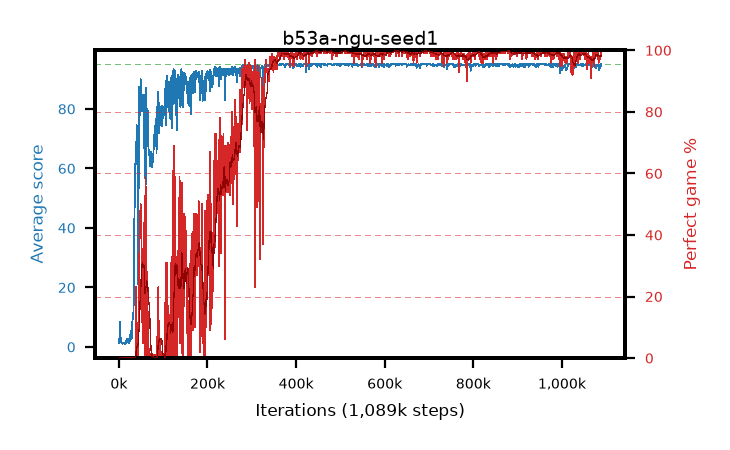
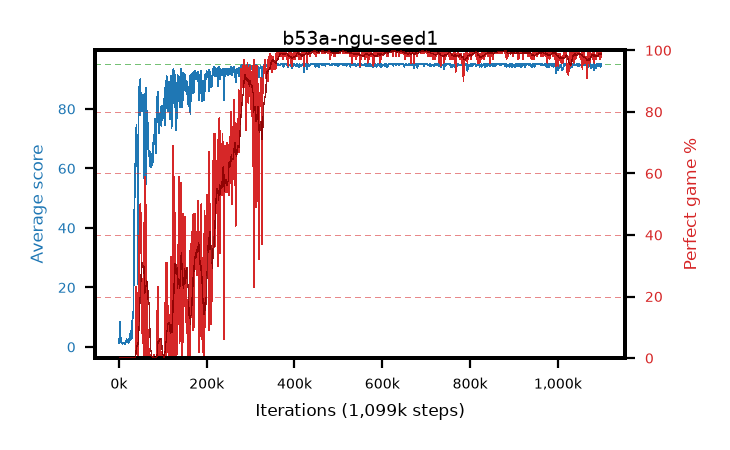
live pictures of 4 arm(s)

diff --git a/results/b53d-ngu-seed4/b53d-ngu-seed4.md b/results/b53d-ngu-seed4/b53d-ngu-seed4.md
@@ -1,6 +1,6 @@
 # b53d-ngu-seed4
 
-step **1,089,000** · 1089 evals · trailing **94.82** · peak **94.94** @1,040,000 · sef **72.3** · best30 **99.7** @1,024,000
+step **1,099,000** · 1099 evals · trailing **94.9** · peak **94.94** @1,040,000 · sef **72.5** · best30 **99.7** @1,024,000
 
 ## Config
 
@@ -80,15 +80,15 @@ step **1,089,000** · 1089 evals · trailing **94.82** · peak **94.94** @1,040,
 | 2000 | 2.39 | 1.47 | 0.0 | 8.0 | 1.286 | 0.0 | 0.4 |
 | 3000 | 6.99 | 3.31 | 0.0 | 25.0 | 5.34 | 0.0 | 0.4 |
 | ... | ... | ... | ... | ... | ... | ... | ... |
-| 1078000 | 94.98 | 94.82 | 93.0 | 95.0 | 192.676 | 99.0 | 0.4 |
-| 1079000 | 95.0 | 94.82 | 95.0 | 95.0 | 193.702 | 100.0 | 0.4 |
-| 1080000 | 95.0 | 94.82 | 95.0 | 95.0 | 193.704 | 100.0 | 0.4 |
-| 1081000 | 94.95 | 94.82 | 90.0 | 95.0 | 192.646 | 99.0 | 0.4 |
-| 1082000 | 94.95 | 94.82 | 90.0 | 95.0 | 192.654 | 99.0 | 0.4 |
-| 1083000 | 94.54 | 94.81 | 52.0 | 95.0 | 191.195 | 98.0 | 0.4 |
-| 1084000 | 95.0 | 94.81 | 95.0 | 95.0 | 193.691 | 100.0 | 0.4 |
-| 1085000 | 95.0 | 94.81 | 95.0 | 95.0 | 193.704 | 100.0 | 0.4 |
-| 1086000 | 95.0 | 94.81 | 95.0 | 95.0 | 193.713 | 100.0 | 0.4 |
-| 1087000 | 95.0 | 94.81 | 95.0 | 95.0 | 193.702 | 100.0 | 0.4 |
 | 1088000 | 94.75 | 94.82 | 70.0 | 95.0 | 192.452 | 99.0 | 0.4 |
 | 1089000 | 94.89 | 94.82 | 84.0 | 95.0 | 192.593 | 99.0 | 0.4 |
+| 1090000 | 95.0 | 94.84 | 95.0 | 95.0 | 193.687 | 100.0 | 0.4 |
+| 1091000 | 94.43 | 94.83 | 41.0 | 95.0 | 189.996 | 97.0 | 0.4 |
+| 1092000 | 95.0 | 94.83 | 95.0 | 95.0 | 193.69 | 100.0 | 0.4 |
+| 1093000 | 94.83 | 94.83 | 84.0 | 95.0 | 190.536 | 97.0 | 0.4 |
+| 1094000 | 95.0 | 94.88 | 95.0 | 95.0 | 193.696 | 100.0 | 0.4 |
+| 1095000 | 94.94 | 94.9 | 91.0 | 95.0 | 191.561 | 98.0 | 0.4 |
+| 1096000 | 94.41 | 94.89 | 36.0 | 95.0 | 192.064 | 99.0 | 0.4 |
+| 1097000 | 94.97 | 94.9 | 92.0 | 95.0 | 192.67 | 99.0 | 0.4 |
+| 1098000 | 95.0 | 94.9 | 95.0 | 95.0 | 193.689 | 100.0 | 0.4 |
+| 1099000 | 95.0 | 94.9 | 95.0 | 95.0 | 193.699 | 100.0 | 0.4 |

diff --git a/results/b53a-ngu-seed1/b53a-ngu-seed1.md b/results/b53a-ngu-seed1/b53a-ngu-seed1.md
@@ -1,6 +1,6 @@
 # b53a-ngu-seed1
 
-step **1,089,000** · 1089 evals · trailing **94.53** · peak **94.96** @643,000 · sef **74.2** · best30 **99.7** @643,000
+step **1,099,000** · 1099 evals · trailing **94.6** · peak **94.96** @643,000 · sef **74.4** · best30 **99.7** @643,000
 
 ## Config
 
@@ -80,15 +80,15 @@ step **1,089,000** · 1089 evals · trailing **94.53** · peak **94.96** @643,00
 | 2000 | 8.43 | 4.84 | 0.0 | 21.0 | 7.201 | 0.0 | 0.4 |
 | 3000 | 8.52 | 6.07 | 0.0 | 26.0 | 5.525 | 0.0 | 0.4 |
 | ... | ... | ... | ... | ... | ... | ... | ... |
-| 1078000 | 94.95 | 94.7 | 92.0 | 95.0 | 191.592 | 98.0 | 0.4 |
-| 1079000 | 94.21 | 94.69 | 16.0 | 95.0 | 191.864 | 99.0 | 0.4 |
-| 1080000 | 94.47 | 94.68 | 42.0 | 95.0 | 192.098 | 99.0 | 0.4 |
-| 1081000 | 94.5 | 94.66 | 54.0 | 95.0 | 190.108 | 97.0 | 0.4 |
-| 1082000 | 95.0 | 94.67 | 95.0 | 95.0 | 193.693 | 100.0 | 0.4 |
-| 1083000 | 92.98 | 94.6 | 19.0 | 95.0 | 187.518 | 96.0 | 0.4 |
-| 1084000 | 93.92 | 94.57 | 38.0 | 95.0 | 190.549 | 98.0 | 0.4 |
-| 1085000 | 94.91 | 94.58 | 89.0 | 95.0 | 191.581 | 98.0 | 0.4 |
-| 1086000 | 93.68 | 94.55 | 29.0 | 95.0 | 189.261 | 97.0 | 0.4 |
-| 1087000 | 94.18 | 94.52 | 18.0 | 95.0 | 190.842 | 98.0 | 0.4 |
 | 1088000 | 94.99 | 94.53 | 94.0 | 95.0 | 192.634 | 99.0 | 0.4 |
 | 1089000 | 95.0 | 94.53 | 95.0 | 95.0 | 193.695 | 100.0 | 0.4 |
+| 1090000 | 94.98 | 94.54 | 93.0 | 95.0 | 192.629 | 99.0 | 0.4 |
+| 1091000 | 94.28 | 94.52 | 23.0 | 95.0 | 191.923 | 99.0 | 0.4 |
+| 1092000 | 94.92 | 94.52 | 89.0 | 95.0 | 191.506 | 98.0 | 0.4 |
+| 1093000 | 95.0 | 94.52 | 95.0 | 95.0 | 193.675 | 100.0 | 0.4 |
+| 1094000 | 95.0 | 94.53 | 95.0 | 95.0 | 193.701 | 100.0 | 0.4 |
+| 1095000 | 94.95 | 94.53 | 90.0 | 95.0 | 192.633 | 99.0 | 0.4 |
+| 1096000 | 94.42 | 94.56 | 52.0 | 95.0 | 190.042 | 97.0 | 0.4 |
+| 1097000 | 94.12 | 94.56 | 11.0 | 95.0 | 189.743 | 97.0 | 0.4 |
+| 1098000 | 94.96 | 94.57 | 91.0 | 95.0 | 192.602 | 99.0 | 0.4 |
+| 1099000 | 95.0 | 94.6 | 95.0 | 95.0 | 193.714 | 100.0 | 0.4 |

diff --git a/results/b53c-ngu-seed3/b53c-ngu-seed3.md b/results/b53c-ngu-seed3/b53c-ngu-seed3.md
@@ -1,6 +1,6 @@
 # b53c-ngu-seed3
 
-step **1,079,000** · 1079 evals · trailing **94.87** · peak **94.93** @574,000 · sef **78.8** · best30 **99.6** @585,000
+step **1,089,000** · 1089 evals · trailing **94.91** · peak **94.93** @574,000 · sef **79.0** · best30 **99.6** @585,000
 
 ## Config
 
@@ -80,15 +80,15 @@ step **1,079,000** · 1079 evals · trailing **94.87** · peak **94.93** @574,00
 | 2000 | 6.19 | 3.38 | 0.0 | 14.0 | 2.147 | 0.0 | 0.4 |
 | 3000 | 12.02 | 6.26 | 1.0 | 18.0 | 7.496 | 0.0 | 0.4 |
 | ... | ... | ... | ... | ... | ... | ... | ... |
-| 1068000 | 95.0 | 94.56 | 95.0 | 95.0 | 193.66 | 100.0 | 0.4 |
-| 1069000 | 94.98 | 94.56 | 93.0 | 95.0 | 192.606 | 99.0 | 0.4 |
-| 1070000 | 95.0 | 94.63 | 95.0 | 95.0 | 193.688 | 100.0 | 0.4 |
-| 1071000 | 94.95 | 94.73 | 90.0 | 95.0 | 192.651 | 99.0 | 0.4 |
-| 1072000 | 94.95 | 94.77 | 92.0 | 95.0 | 191.595 | 98.0 | 0.4 |
-| 1073000 | 94.99 | 94.77 | 94.0 | 95.0 | 192.646 | 99.0 | 0.4 |
-| 1074000 | 94.87 | 94.77 | 84.0 | 95.0 | 191.526 | 98.0 | 0.4 |
-| 1075000 | 94.96 | 94.8 | 93.0 | 95.0 | 191.583 | 98.0 | 0.4 |
-| 1076000 | 94.94 | 94.84 | 92.0 | 95.0 | 191.526 | 98.0 | 0.4 |
-| 1077000 | 95.0 | 94.85 | 95.0 | 95.0 | 193.694 | 100.0 | 0.4 |
 | 1078000 | 94.71 | 94.85 | 78.0 | 95.0 | 190.314 | 97.0 | 0.4 |
 | 1079000 | 94.91 | 94.87 | 90.0 | 95.0 | 191.52 | 98.0 | 0.4 |
+| 1080000 | 94.61 | 94.86 | 58.0 | 95.0 | 191.213 | 98.0 | 0.4 |
+| 1081000 | 94.93 | 94.88 | 92.0 | 95.0 | 190.42 | 97.0 | 0.4 |
+| 1082000 | 95.0 | 94.9 | 95.0 | 95.0 | 193.674 | 100.0 | 0.4 |
+| 1083000 | 94.93 | 94.9 | 89.0 | 95.0 | 191.55 | 98.0 | 0.4 |
+| 1084000 | 94.8 | 94.89 | 82.0 | 95.0 | 191.403 | 98.0 | 0.4 |
+| 1085000 | 94.79 | 94.89 | 81.0 | 95.0 | 191.428 | 98.0 | 0.4 |
+| 1086000 | 95.0 | 94.91 | 95.0 | 95.0 | 193.694 | 100.0 | 0.4 |
+| 1087000 | 94.98 | 94.91 | 93.0 | 95.0 | 192.602 | 99.0 | 0.4 |
+| 1088000 | 95.0 | 94.91 | 95.0 | 95.0 | 193.711 | 100.0 | 0.4 |
+| 1089000 | 94.95 | 94.91 | 92.0 | 95.0 | 191.596 | 98.0 | 0.4 |
